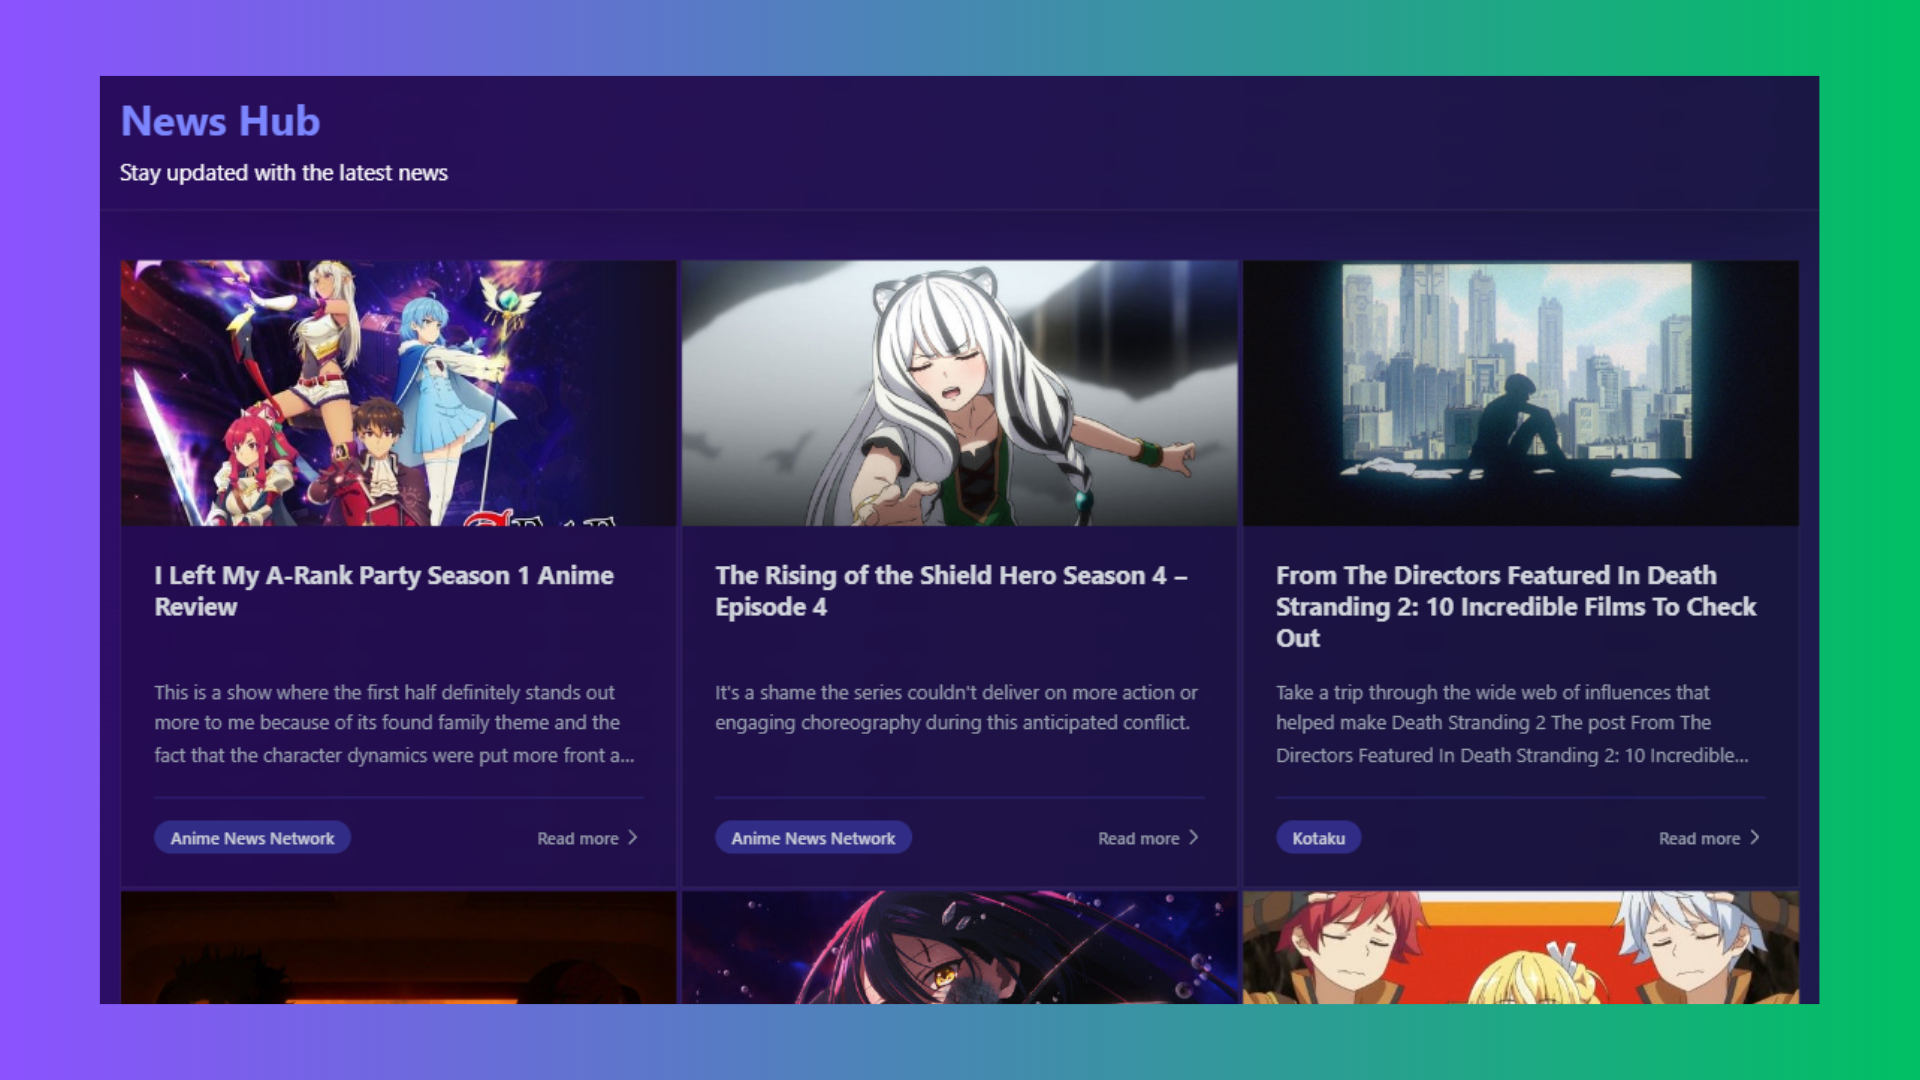
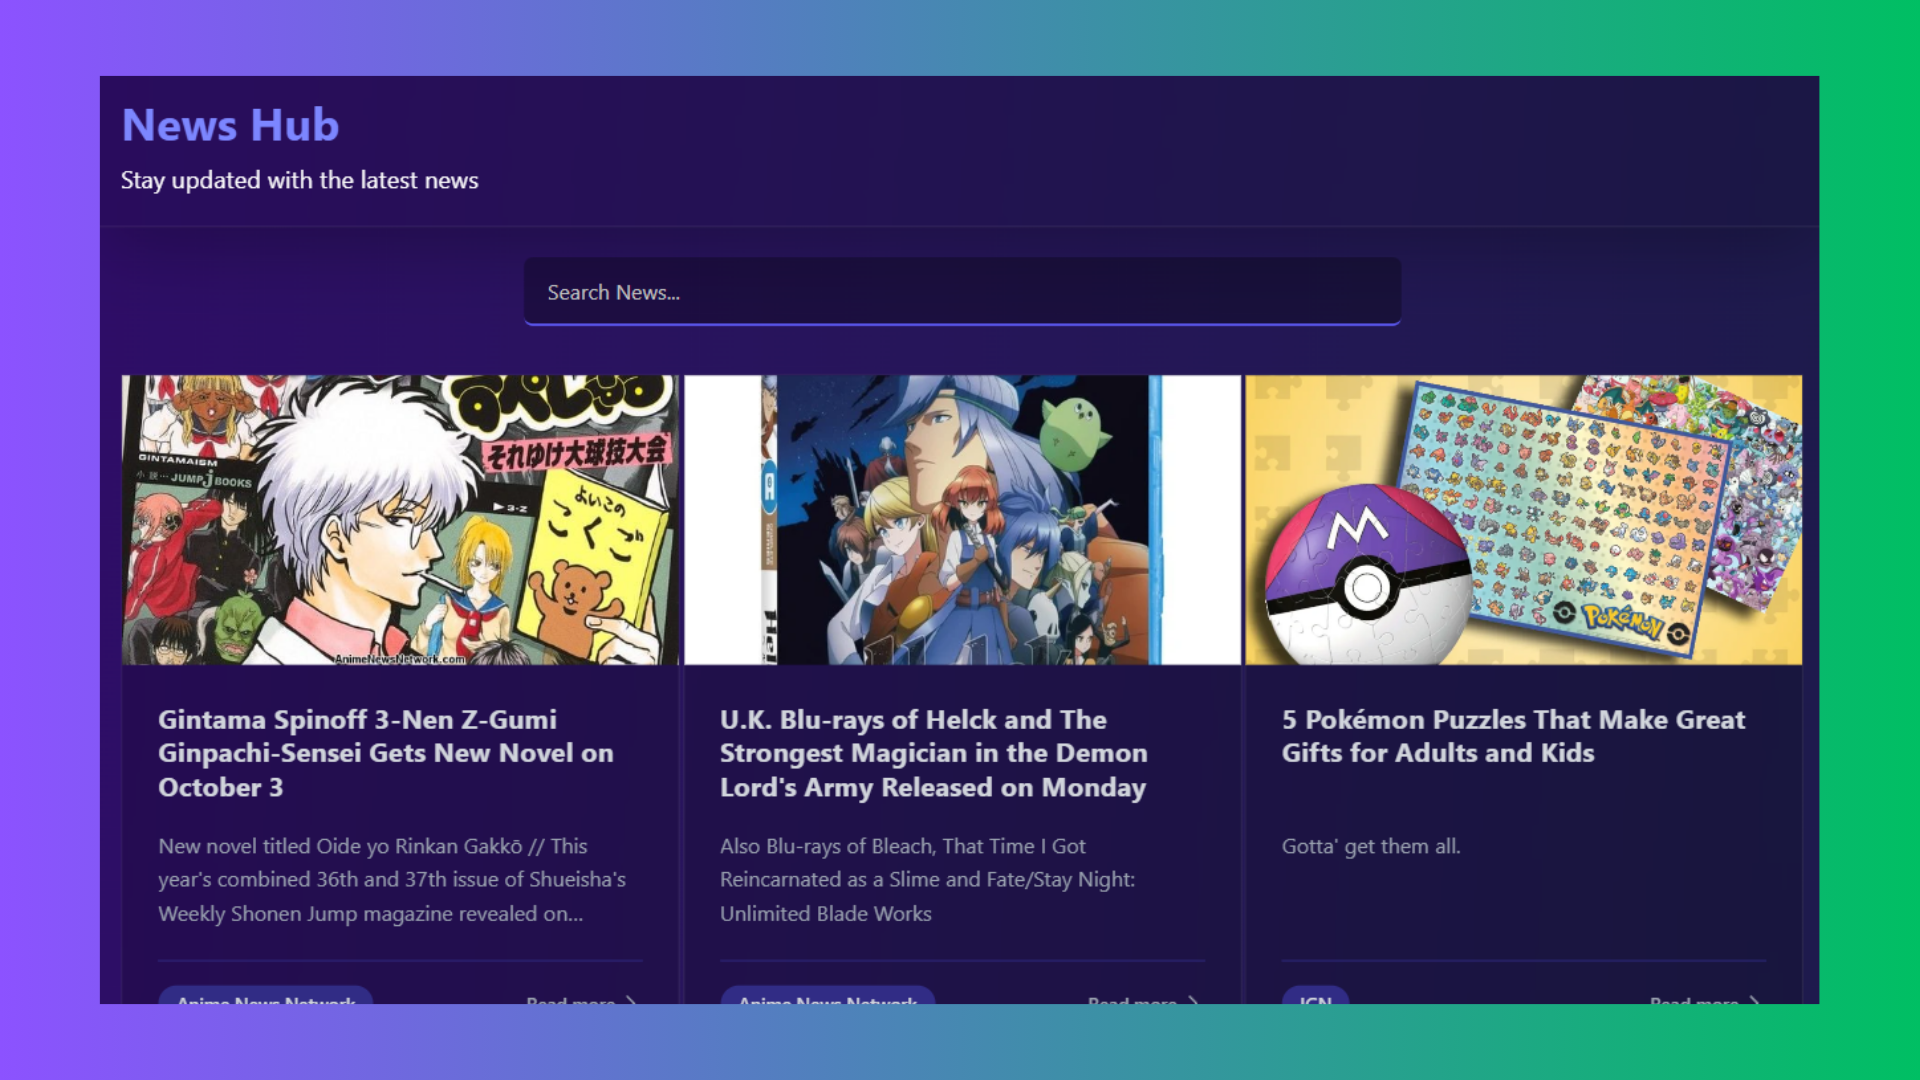
change project pic and detail

diff --git a/src/components/projects/ProjectData.jsx b/src/components/projects/ProjectData.jsx
@@ -226,7 +226,7 @@ export const ProjectsData = [
     picSrc: "./projects/blogs-pic/",
     title: "News Blog App",
     positions: "Personal Project / Frontend Web Development",
-    description: `Developed a dynamic news blog using React and NewsAPI, featuring slug-based routing for article pages. Implemented structured layouts to display article titles, author names, source sites, and images. Designed a responsive UI with Tailwind CSS. deployed on Vercel.`,
+    description: `Developed a dynamic news blog using React and NewsAPI, featuring slug-based routing for article pages and debouncing search article. Implemented structured layouts to display article titles, author names, source sites, and images. Designed a responsive UI with Tailwind CSS. deployed on Vercel.`,
     tech: ["NextJs", "TypeScript", "Tailwind CSS", "Newsapi", "Vercel"],
     buttons: [
       {
